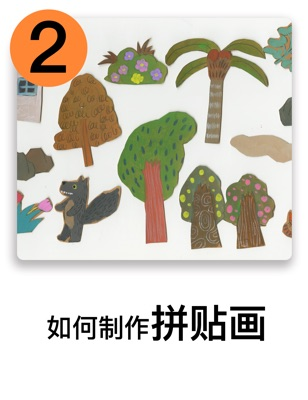
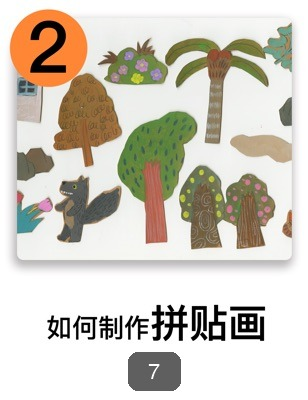
技能卡牌原图添加序号 1-11，底部居中圆形编号

Changed region(s): [[0.4091, 0.87, 0.6136, 0.99]]

diff --git a/components/skill-card-mini.tsx b/components/skill-card-mini.tsx
@@ -4,7 +4,6 @@ import { assetUrl } from "@/lib/utils";
 interface SkillCardMiniProps {
   name: string;
   rarity: "COMMON" | "RARE" | "EPIC" | "LEGENDARY";
-  index?: number;
   description?: string;
   unlocked?: boolean;
   image?: string;
@@ -24,7 +23,7 @@ const rarityBorder: Record<string, string> = {
   LEGENDARY: "border-amber-400",
 };
 
-export function SkillCardMini({ name, rarity, index, description, unlocked = true, image }: SkillCardMiniProps) {
+export function SkillCardMini({ name, rarity, description, unlocked = true, image }: SkillCardMiniProps) {
   if (image) {
     return (
       <div className={`rounded-xl overflow-hidden border-2 transition-all hover:-translate-y-0.5 hover:shadow-lg ${
@@ -32,11 +31,6 @@ export function SkillCardMini({ name, rarity, index, description, unlocked = tru
       }`}>
         <div className="aspect-[3/4] relative bg-muted">
           <Image src={assetUrl(image)} alt={name} fill sizes="25vw" className="object-cover img-bright" />
-          {index != null && (
-            <span className="absolute top-2 left-2 flex h-6 w-6 items-center justify-center rounded-full bg-black/60 text-white text-xs font-bold">
-              {index}
-            </span>
-          )}
         </div>
         <div className="p-2 text-center bg-card">
           <p className="font-bold text-xs truncate">{name}</p>

diff --git a/app/page.tsx b/app/page.tsx
@@ -77,10 +77,9 @@ export default function HomePage() {
       {/* Skill Cards */}
       <Section title="技能卡牌收集" subtitle="每节课解锁一张卡牌，21 张卡牌见证成长" viewAllHref="/profile/skills">
         <div className="flex lg:grid lg:grid-cols-4 gap-3 overflow-x-auto lg:overflow-visible pb-2 snap-x lg:snap-none snap-mandatory no-scrollbar">
-          {displaySkills.map((skill, i) => (
+          {displaySkills.map((skill) => (
             <div key={skill.name} className="w-[240px] lg:w-auto shrink-0 snap-start">
               <SkillCardMini
-                index={i + 1}
                 name={skill.name}
                 rarity={skill.rarity}
                 image={skill.image}

diff --git a/scripts/number-cards.py b/scripts/number-cards.py
@@ -1,0 +1,84 @@
+"""给技能卡牌图片叠加序号"""
+from PIL import Image, ImageDraw, ImageFont
+import os
+
+SKILLS_DIR = "public/skills"
+FONT_PATH = "/System/Library/Fonts/Helvetica.ttc"
+
+# 卡牌图片列表（按顺序）
+CARDS = [
+    "shape-generalization.jpg",
+    "line-expression.jpg",
+    "line-application.jpg",
+    "spatial-expression.jpg",
+    "occlusion-relationship.jpg",
+    "figure-motion.jpg",
+    "collage-making.jpg",
+    "tile-continuity.jpg",
+    "sticker-packaging.jpg",
+    "design-basics.jpg",
+    "design-fundamentals.jpg",
+]
+
+def add_number(image_path, number, output_path):
+    img = Image.open(image_path).convert("RGBA")
+    w, h = img.size
+    draw = ImageDraw.Draw(img)
+
+    # 卡片底部居中区域 — 白色半透明底 + 序数字
+    badge_y = int(h * 0.88)
+    badge_h = 38
+    badge_w = 52
+
+    # 半透明深色底
+    overlay = Image.new("RGBA", img.size, (0, 0, 0, 0))
+    overlay_draw = ImageDraw.Draw(overlay)
+
+    # 圆角矩形底
+    x0 = (w - badge_w) // 2
+    x1 = x0 + badge_w
+    y0 = badge_y
+    y1 = y0 + badge_h
+    overlay_draw.rounded_rectangle(
+        [(x0, y0), (x1, y1)],
+        radius=10,
+        fill=(0, 0, 0, 160),
+    )
+
+    # 数字
+    try:
+        font = ImageFont.truetype(FONT_PATH, 22)
+    except OSError:
+        font = ImageFont.load_default()
+
+    text = str(number)
+    bbox = draw.textbbox((0, 0), text, font=font)
+    tw = bbox[2] - bbox[0]
+    th = bbox[3] - bbox[1]
+    tx = (w - tw) // 2
+    ty = badge_y + (badge_h - th) // 2 - 1
+    overlay_draw.text((tx, ty), text, font=font, fill=(255, 255, 255, 255))
+
+    img = Image.alpha_composite(img, overlay)
+    img = img.convert("RGB")
+    img.save(output_path, "JPEG", quality=92)
+    print(f"  {number:2d} → {os.path.basename(output_path)}")
+
+
+def main():
+    base = os.path.join(os.path.dirname(__file__), "..")
+    skills = os.path.join(base, SKILLS_DIR)
+
+    print("处理技能卡牌图片...")
+    for i, filename in enumerate(CARDS):
+        src = os.path.join(skills, filename)
+        if not os.path.exists(src):
+            print(f"  ⚠ 跳过 {filename} (文件不存在)")
+            continue
+        add_number(src, i + 1, src)
+
+    print("完成!")
+
+
+if __name__ == "__main__":
+    main()
